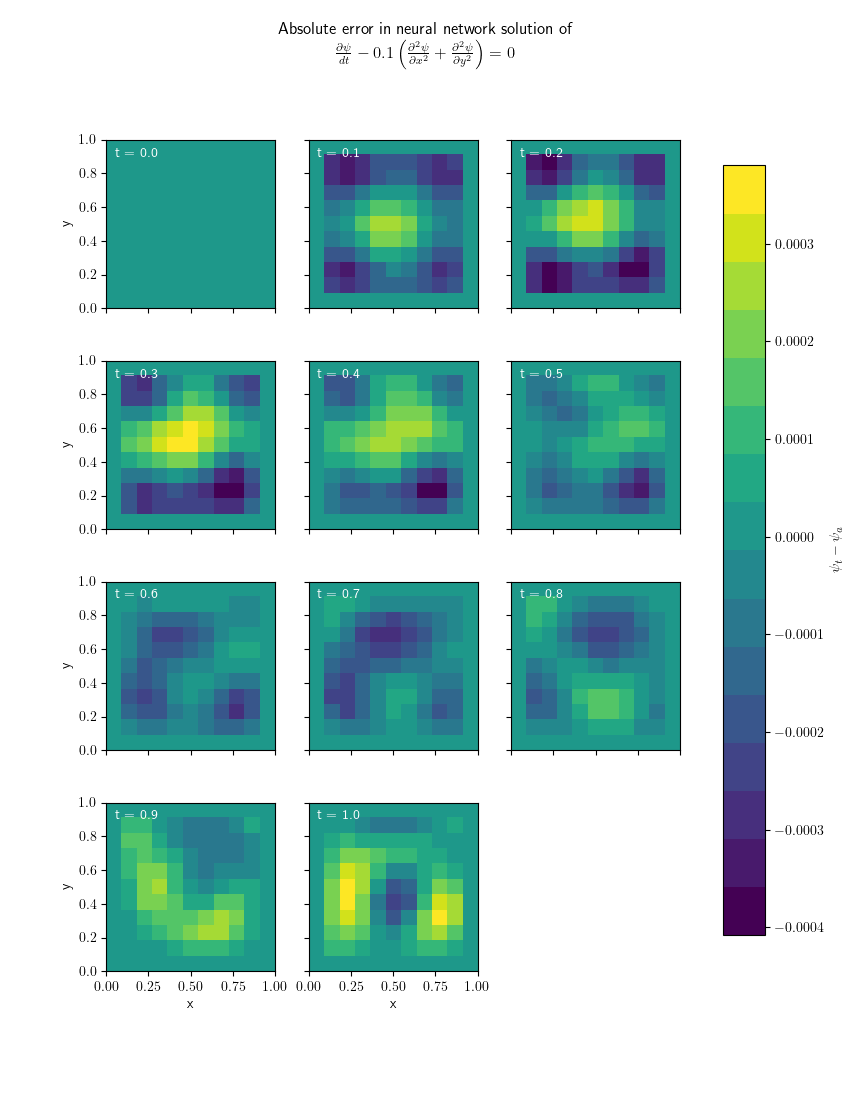
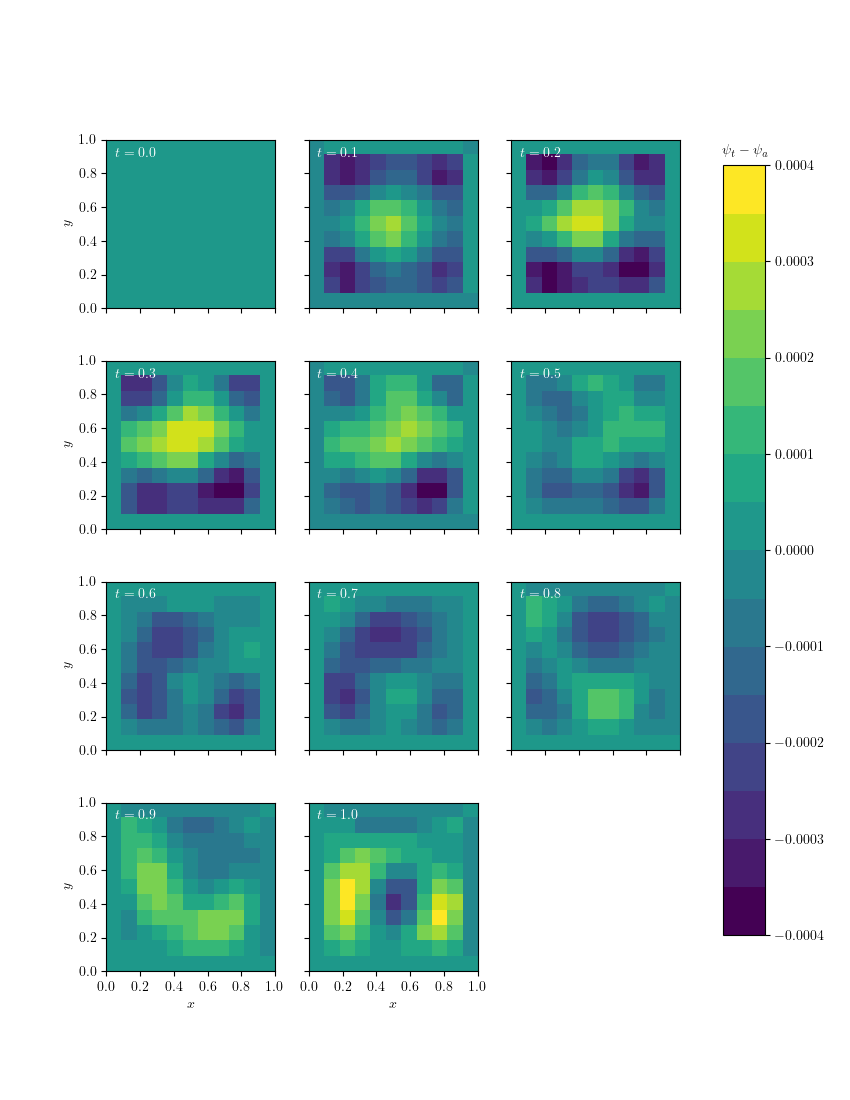
Removed obsolete figures. Added code and data for custom figure generation. Updated paper.md with feedback from 2021-02-13.

diff --git a/figures/make_plots.py b/figures/make_plots.py
@@ -1,0 +1,105 @@
+# Script to generate figure for NNDE JOSS paper.
+
+
+import math as m
+
+import matplotlib
+import matplotlib.pyplot as plt
+import numpy as np
+
+
+# Width and height of a figure (a standard 8.5x11 inch page)
+FIGURE_WIDTH_INCHES = 8.5
+FIGURE_HEIGHT_INCHES = 11
+
+# <HACK>
+NT = 11
+NX = 11
+NY = 11
+N_CMAP_COLORS = 16
+# </HACK>
+
+
+# Set to True to use LaTex rendering.
+use_latex = True
+
+def make_plots(variable_name, titles, cb_labels, t_labels, e):
+    """Make a triplet of analytical, trained, and error plots."""
+
+    # Compute the number of subplots to make.
+    nt = len(t_labels)
+
+    # Compute the number of rows and columns of subplots.
+    n_rows = int(m.ceil(m.sqrt(nt)))
+    n_cols = int(m.floor(m.sqrt(nt)))
+
+    # Compute the value limits for each data set.
+    (e_min, e_max) = (e.min(), e.max())
+
+    # Plot the absolute error in the trained results.
+    fig, axes = plt.subplots(nrows=n_rows, ncols=n_cols,
+                             figsize=(FIGURE_WIDTH_INCHES,
+                                      FIGURE_HEIGHT_INCHES))
+    for i in range(nt):
+        ax = axes.flat[i]
+        im = ax.imshow(e[i].T, origin='lower', extent=[0, 1, 0, 1], vmin=-4e-4, vmax=4e-4,
+                       cmap=plt.get_cmap('viridis', N_CMAP_COLORS))
+        if i >= (n_rows - 1)*n_cols:
+            ax.set_xlabel('$x$')
+        else:
+            ax.tick_params(labelbottom=False)
+        if i % n_cols == 0:
+            ax.set_ylabel('$y$')
+        else:
+            ax.tick_params(labelleft=False)
+        ax.set_xticks([0, 0.2, 0.4, 0.6, 0.8, 1.0])
+        ax.text(0.05, 0.9, t_labels[i], color='white')
+    # Hide unused subplots.
+    for i in range(nt, n_rows*n_cols):
+        axes.flat[i].axis('off')
+
+    # Add the colorbar.
+    fig.subplots_adjust(right=0.8)
+    cbar_ax = fig.add_axes([0.85, 0.15, 0.05, 0.7])
+    cb = fig.colorbar(im, cax=cbar_ax)
+    fig.text(0.85, 0.86, cb_labels[0])
+    plt.savefig(variable_name + '_e.png')
+    plt.close()
+
+
+def main():
+
+    # Use LaTex for equation rendering.
+    if use_latex:
+        plt.rcParams.update({
+            'text.usetex': True
+        })
+
+    # Load the training data.
+    x_train = np.loadtxt('training_points.dat')
+
+    # N.B. RESULT FILES USE COLUMN ORDER (x y t).
+
+    # Load the errors in the trained results.
+    Yt_err = np.loadtxt('Yt_err.dat').reshape((NT, NX, NY))
+
+    # Create the labels for each time plot.
+    t = x_train[::NX*NY, 0]
+    t_labels = ['$t = %s$' % tt for tt in t]
+
+    # Create a MathJax string for the equation.
+    equation_string = r'$\frac {\partial \psi} {dt} - 0.1 \left( \frac {\partial^2 \psi} {\partial x^2} + \frac {\partial^2 \psi} {\partial y^2} \right) = 0$'
+
+    # Create plots in a buffer for writing to a file.
+    matplotlib.use('Agg')
+
+    # Create plots for the solution error.
+    titles = [
+        'Absolute error in neural network solution of\n%s' % equation_string
+    ]
+    cb_labels = [r'$\psi_t - \psi_a$']
+    make_plots('Y', titles, cb_labels, t_labels, Yt_err)
+
+
+if __name__ == "__main__":
+    main()

diff --git a/paper.md b/paper.md
@@ -24,15 +24,15 @@ Neural networks have been shown to have the ability to solve differential equati
 
 # Statement of need
 
-The `nnde` package provides a pure-Python implementation of one of the earliest approaches to using neural networks to solve differential equations - the trial function method [@Lagaris:1998]. It was initially developed primarily as a vehicle for understanding the internal workings of feedforward neural networks. It has since been enhanced to provide the capabilitiy to solve differential equations of scientific interest, such as the diffusion equation described here. The ultimate goal of the package is to provide the capability to solve systems of coupled partial differential equations, such as the equations of magnetohydrodynamics. Current high-performance neural network packages, such as TensorFlow, can improve the speed of the solutions, TensorFlow alone cannot perform the analytical derivatives required by this code,.
+The `nnde` package provides a pure-Python implementation of one of the earliest approaches to using neural networks to solve differential equations - the trial function method [@Lagaris:1998]. It was initially developed primarily as a vehicle for understanding the internal workings of feedforward neural networks, without the restrictions imposed by an existing neural network framework. It has since been enhanced to provide the capabilitiy to solve differential equations of scientific interest, such as the diffusion equation described here. The ultimate goal of the package is to provide the capability to solve systems of coupled partial differential equations, such as the equations of magnetohydrodynamics. Current high-performance neural network packages, such as TensorFlow or PyTorch, can improve the speed of the matrix computations required for the neural network solutions. But these packages cannot perform the analytical derivatives required by the algorithms implemented in this code.
 
-The most commonly used methods for solving differential equations are the Finite Element Method (FEM) and Finite Difference Method (FDM). However, these methods can be difficult to parallelize and may have large storage requirements for model outputs. The neural network method is straightforward to parallelize due to the independent characteristics of the computational nodes in each network layer. Additionally, the trained network solution is more compact than an FDM or FEM solution because storage of only the network weights and biases are required. The neural network solution is mesh-free and does not require interpolation to retrieve the solution at a non-grid point, as is the case with FDM or FEM. Once the network is trained, computing a solution at any spatial or temporal scale requires only a series of simple matrix multiplications, one per network layer. The trained solution is a sum of arbitrary differentiable basis functions, and therefore the trained solution is also differentiable, which is particularly useful when computing derived quantities such as gradients and fluxes.
+The most commonly used methods for solving differential equations are the Finite Element Method (FEM) and Finite Difference Method (FDM). However, these methods can be difficult to parallelize and may have large storage requirements for model outputs. The neural network method is straightforward to parallelize due to the independent characteristics of the computational nodes in each network layer. Additionally, the trained network solution is more compact than an FDM or FEM solution because storage of only the network weights and biases are required. The neural network solution is mesh-free and does not require interpolation to retrieve the solution at a non-grid point, as is the case with FDM or FEM. Once the network is trained, computing a solution at any spatial or temporal scale requires only a series of matrix multiplications, one per network layer. The trained solution is a sum of arbitrary differentiable basis functions, and therefore the trained solution is also differentiable, which is particularly useful when computing derived quantities such as gradients and fluxes.
 
 # Description
 
 `nnde` implements a version of the trial function algorithm described by @Lagaris:1998. This software also incorporates a modification of the trial function algorithm to automatically incorporate arbitrary Dirichlet boundary conditions of the problem directly into the neural network solution.
 
-This software was developed as part of a project to demonstrate that the coupled partial differential equations of magnetohydrodynamics (MHD) [@Chen:1984] can be solved using neural networks. Tthe result is a package can be used for any ordinary or partial differential equations of up to second order. `nnde` was initially developed entirely in Python to understand the workings of the neural network algorithm.
+This software was developed as part of a project to demonstrate that the coupled partial differential equations of magnetohydrodynamics (MHD) [@Chen:1984] can be solved using neural networks. The result is a package can be used for any ordinary or partial differential equations of up to second order. `nnde` was initially developed entirely in Python to understand the workings of the neural network algorithm.
 
 Consider the diffusion equation in two dimensions as an example of the type of problem that can be solved with `nnde`.
 
@@ -44,11 +44,11 @@ $$\psi(x,y,0) = \sin(\pi x) \sin(\pi y)$$
 
 the analytical solution is
 
-$$\psi_a(\mathbf x) = e^{-2\pi^2 D t} \sin(\pi x) \sin(\pi y)$$
+$$\psi_a(x,y,t) = e^{-2\pi^2 D t} \sin(\pi x) \sin(\pi y)$$
 
 The `nnde` package was used to create a neural network with a single hidden layer and 10 hidden nodes and trained to solve this problem. The error in the trained solution for the case of $D=0.1$ is shown as a function of time in \autoref{fig:diff2d_error}.
 
-![Absolute error in the trained neural network solution $\psi_t(x,y,t)$ of the diffusion problem in 2 spatial dimensions using `nnde` with 10 nodes.\label{fig:diff2d_error}](figures/Y_e.png)
+![Difference between the trained neural network solution $\psi_t(x,y,t)$ and the analytical solution $\psi_a(x,y,t)$ of the diffusion problem in 2 spatial dimensions using `nnde` with 10 nodes.\label{fig:diff2d_error}](figures/Y_e.png)
 
 # Software repository
 
